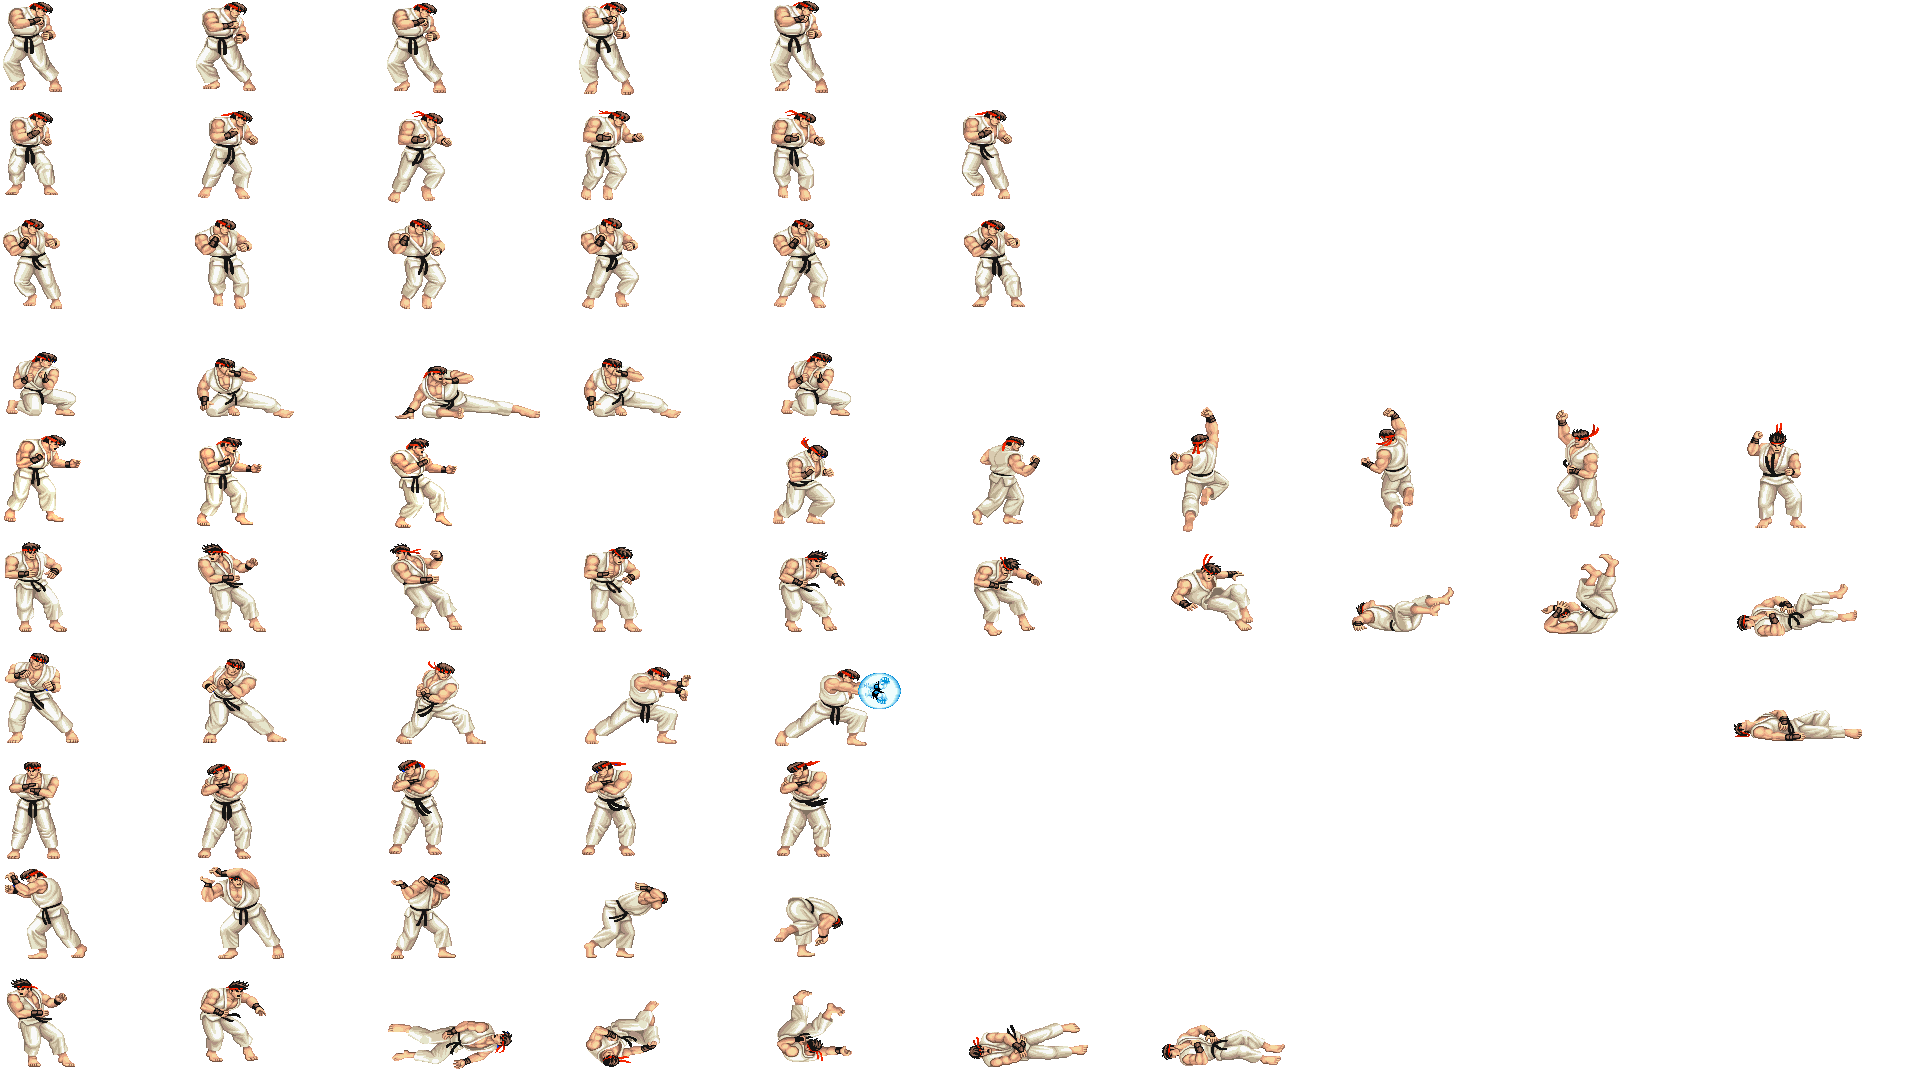
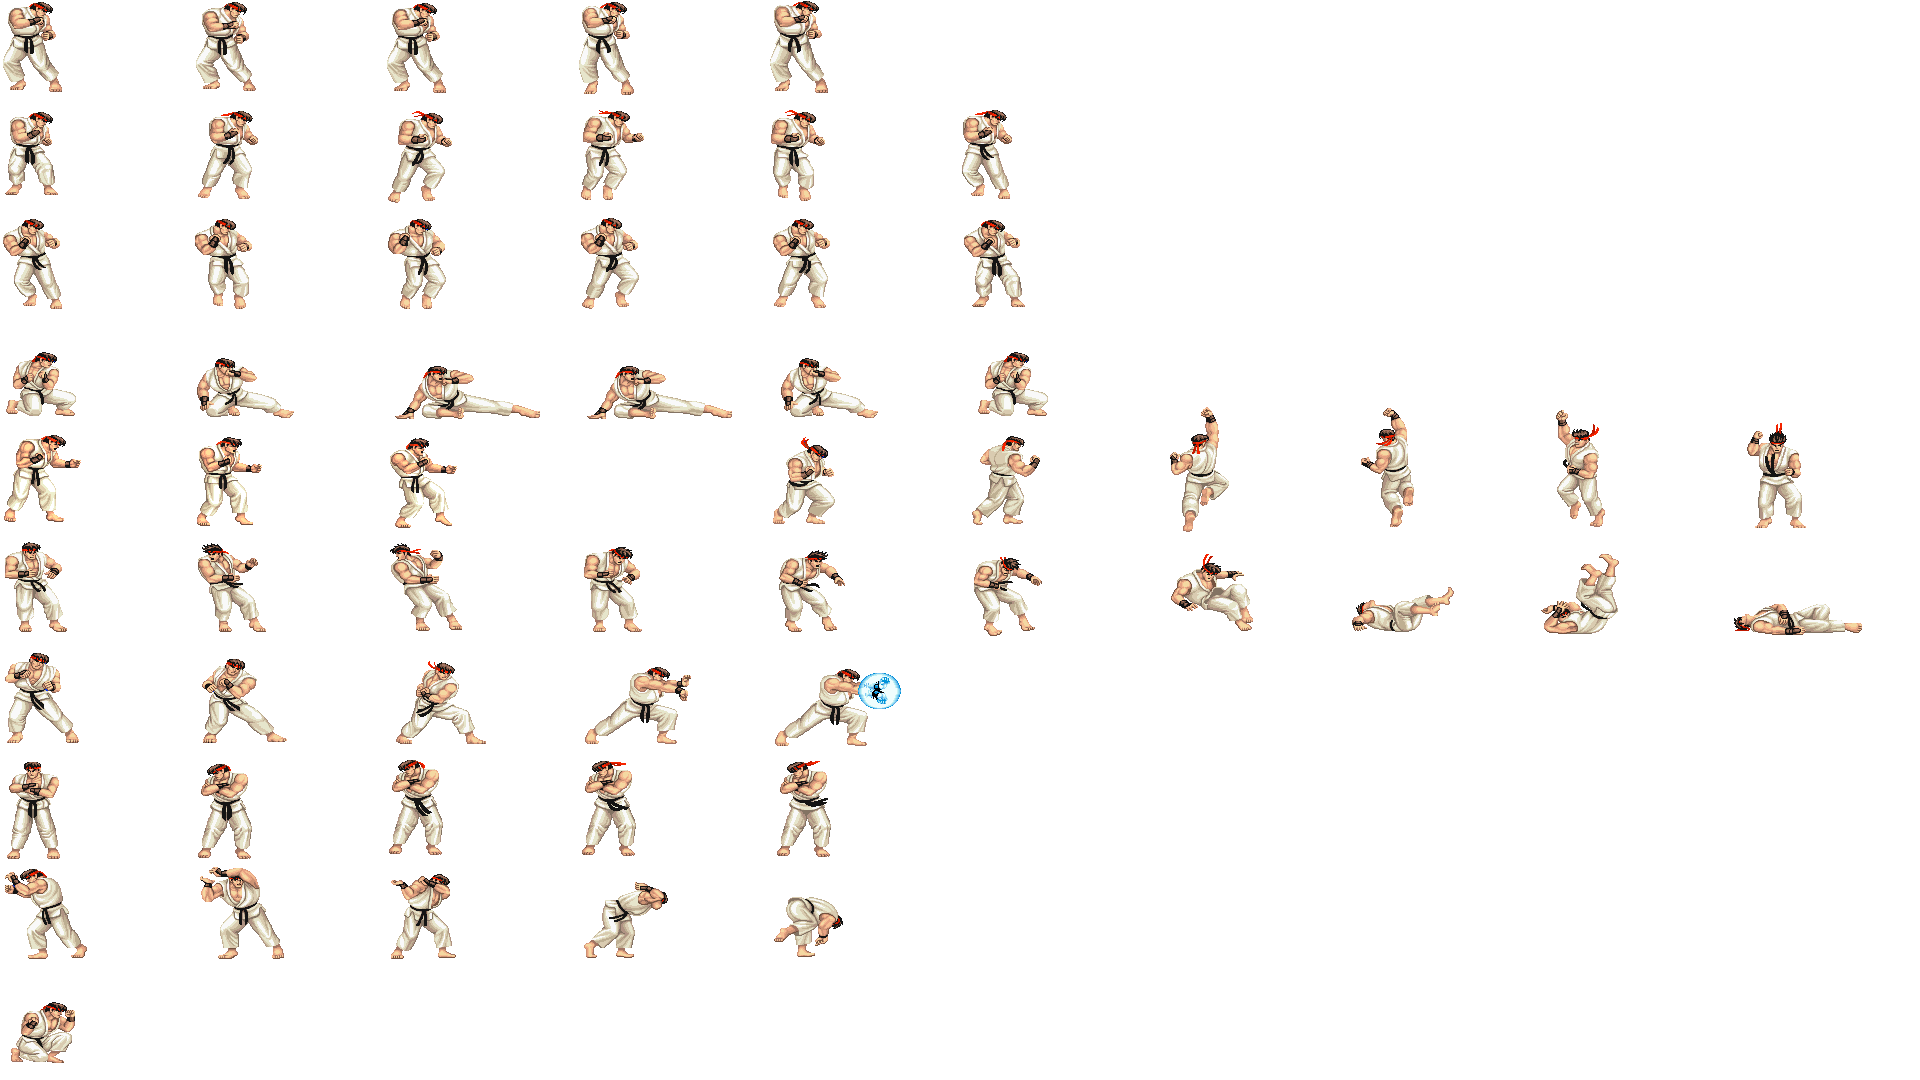
update cMK property

diff --git a/FALL2024/FALL2024/Character.cpp b/FALL2024/FALL2024/Character.cpp
@@ -143,12 +143,12 @@ void Character::UpdateCMKCollider()
 
     if (animatedSquare != NULL) 
     {
-        if (animatedSquare->isAtFrame(2) || animatedSquare->isAtFrame(4))
+        if (animatedSquare->isAtFrame(2) || animatedSquare->isAtFrame(5))
         {
             legHurtBox->getTransform()->setScale(Vector3(0.5f, 0.5f, 1.0f));
             legHurtBox->getTransform()->setPosition(Vector3(sign * 3.0f - (-1.0f * sign) * 1.0f, -2.0f, 0.0f));
         }
-        else if (animatedSquare->isAtFrame(3))
+        else if (animatedSquare->isAtFrame(3) || animatedSquare->isAtFrame(4) )
         {
             legHurtBox->getTransform()->setScale(Vector3(0.75f, 0.5f, 1.0f));
             legHurtBox->getTransform()->setPosition(Vector3(sign * 3.0f + (-1.0f * sign) * 1.25f, -2.0f, 0.0f));
@@ -173,9 +173,7 @@ void Character::updateInput(PlayerInput* input)
     {
         if (animatedSquare->getCurrentState() != AnimationState::YouLose) 
         {
-            printf("get anim state: %i\n", animatedSquare->getCurrentState());
             animatedSquare->set_animation(AnimationState::YouLose, false);
-
         }
         return;
     }

diff --git a/FALL2024/FALL2024/AnimatedSquare.cpp b/FALL2024/FALL2024/AnimatedSquare.cpp
@@ -6,7 +6,7 @@ AnimatedSquare::AnimatedSquare(Vector3 color, float alpha, Shader* shaderProgram
     animations[AnimationState::Idle] = {0, 5, 0.2f };
     animations[AnimationState::WalkFront] = {1, 6, 0.2f };
     animations[AnimationState::WalkBack] = {2, 6, 0.2f };
-    animations[AnimationState::cMK] = { 3, 6, 0.150f };
+    animations[AnimationState::cMK] = { 3, 7, 0.150f };
     animations[AnimationState::Hurt] = { 4, 4, 0.150f };
     animations[AnimationState::Hadoken] = { 6, 6, 0.20f };
     animations[AnimationState::YouWin] = { 7, 6, 0.20f };
